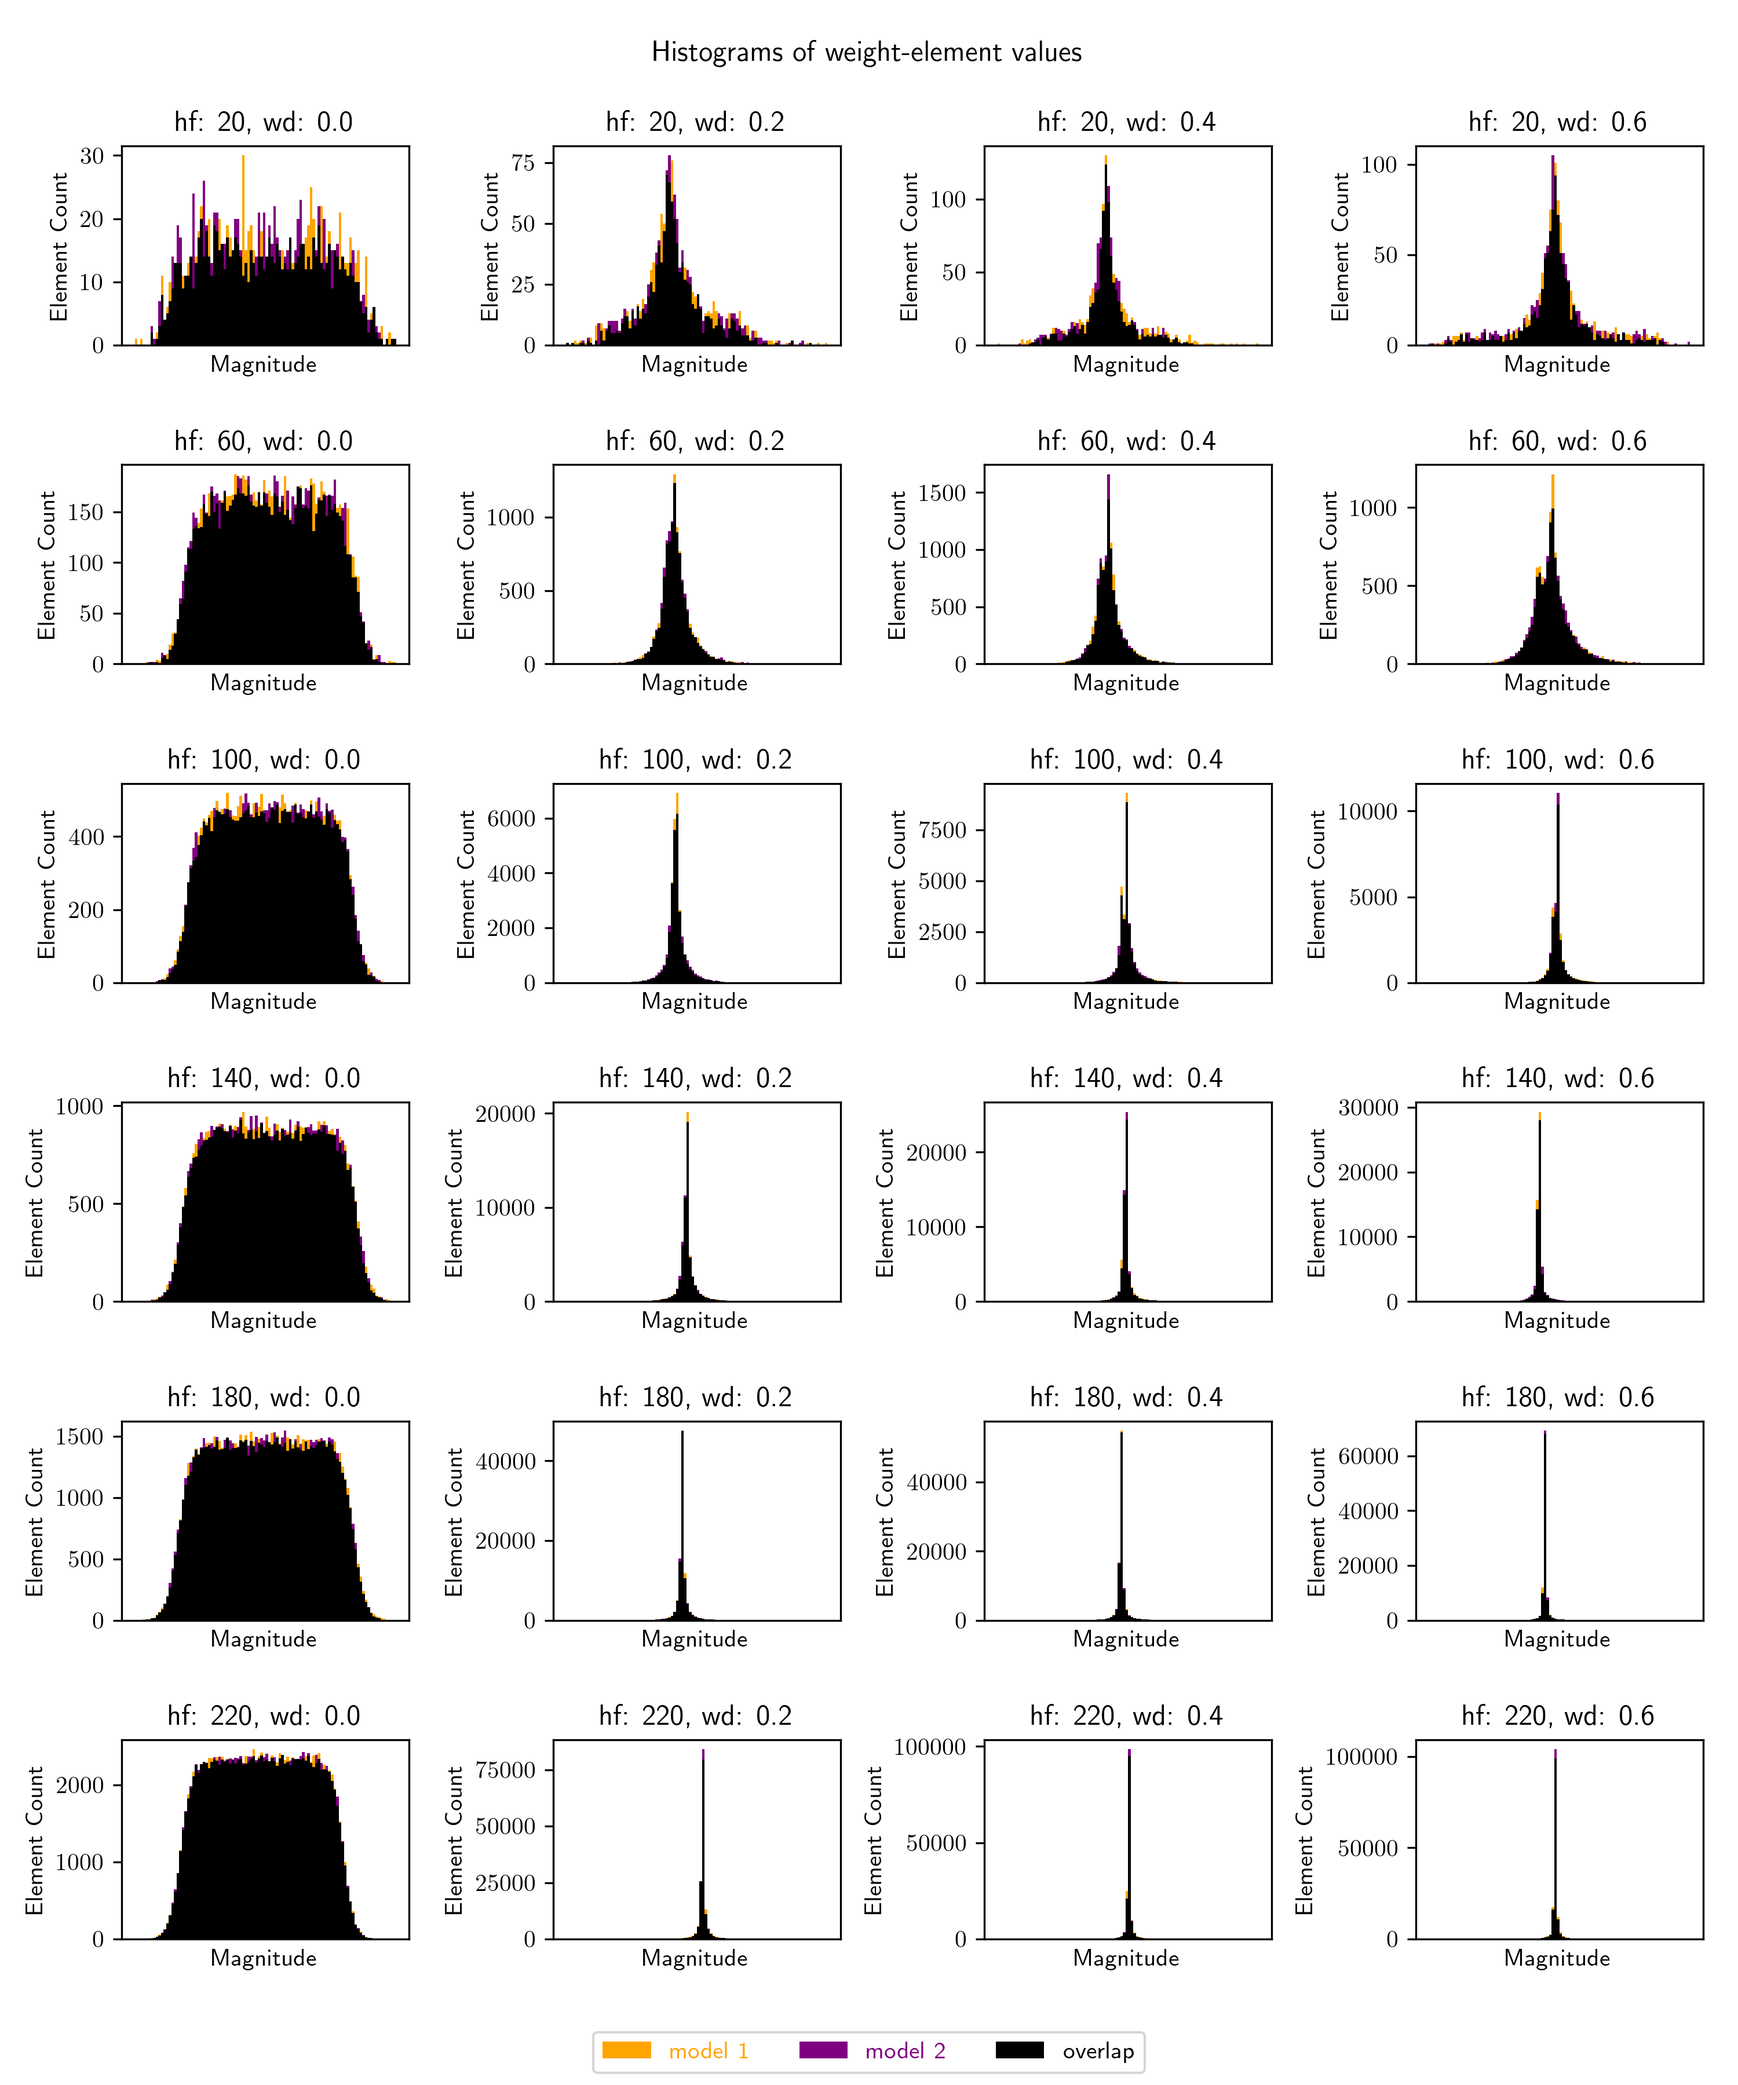
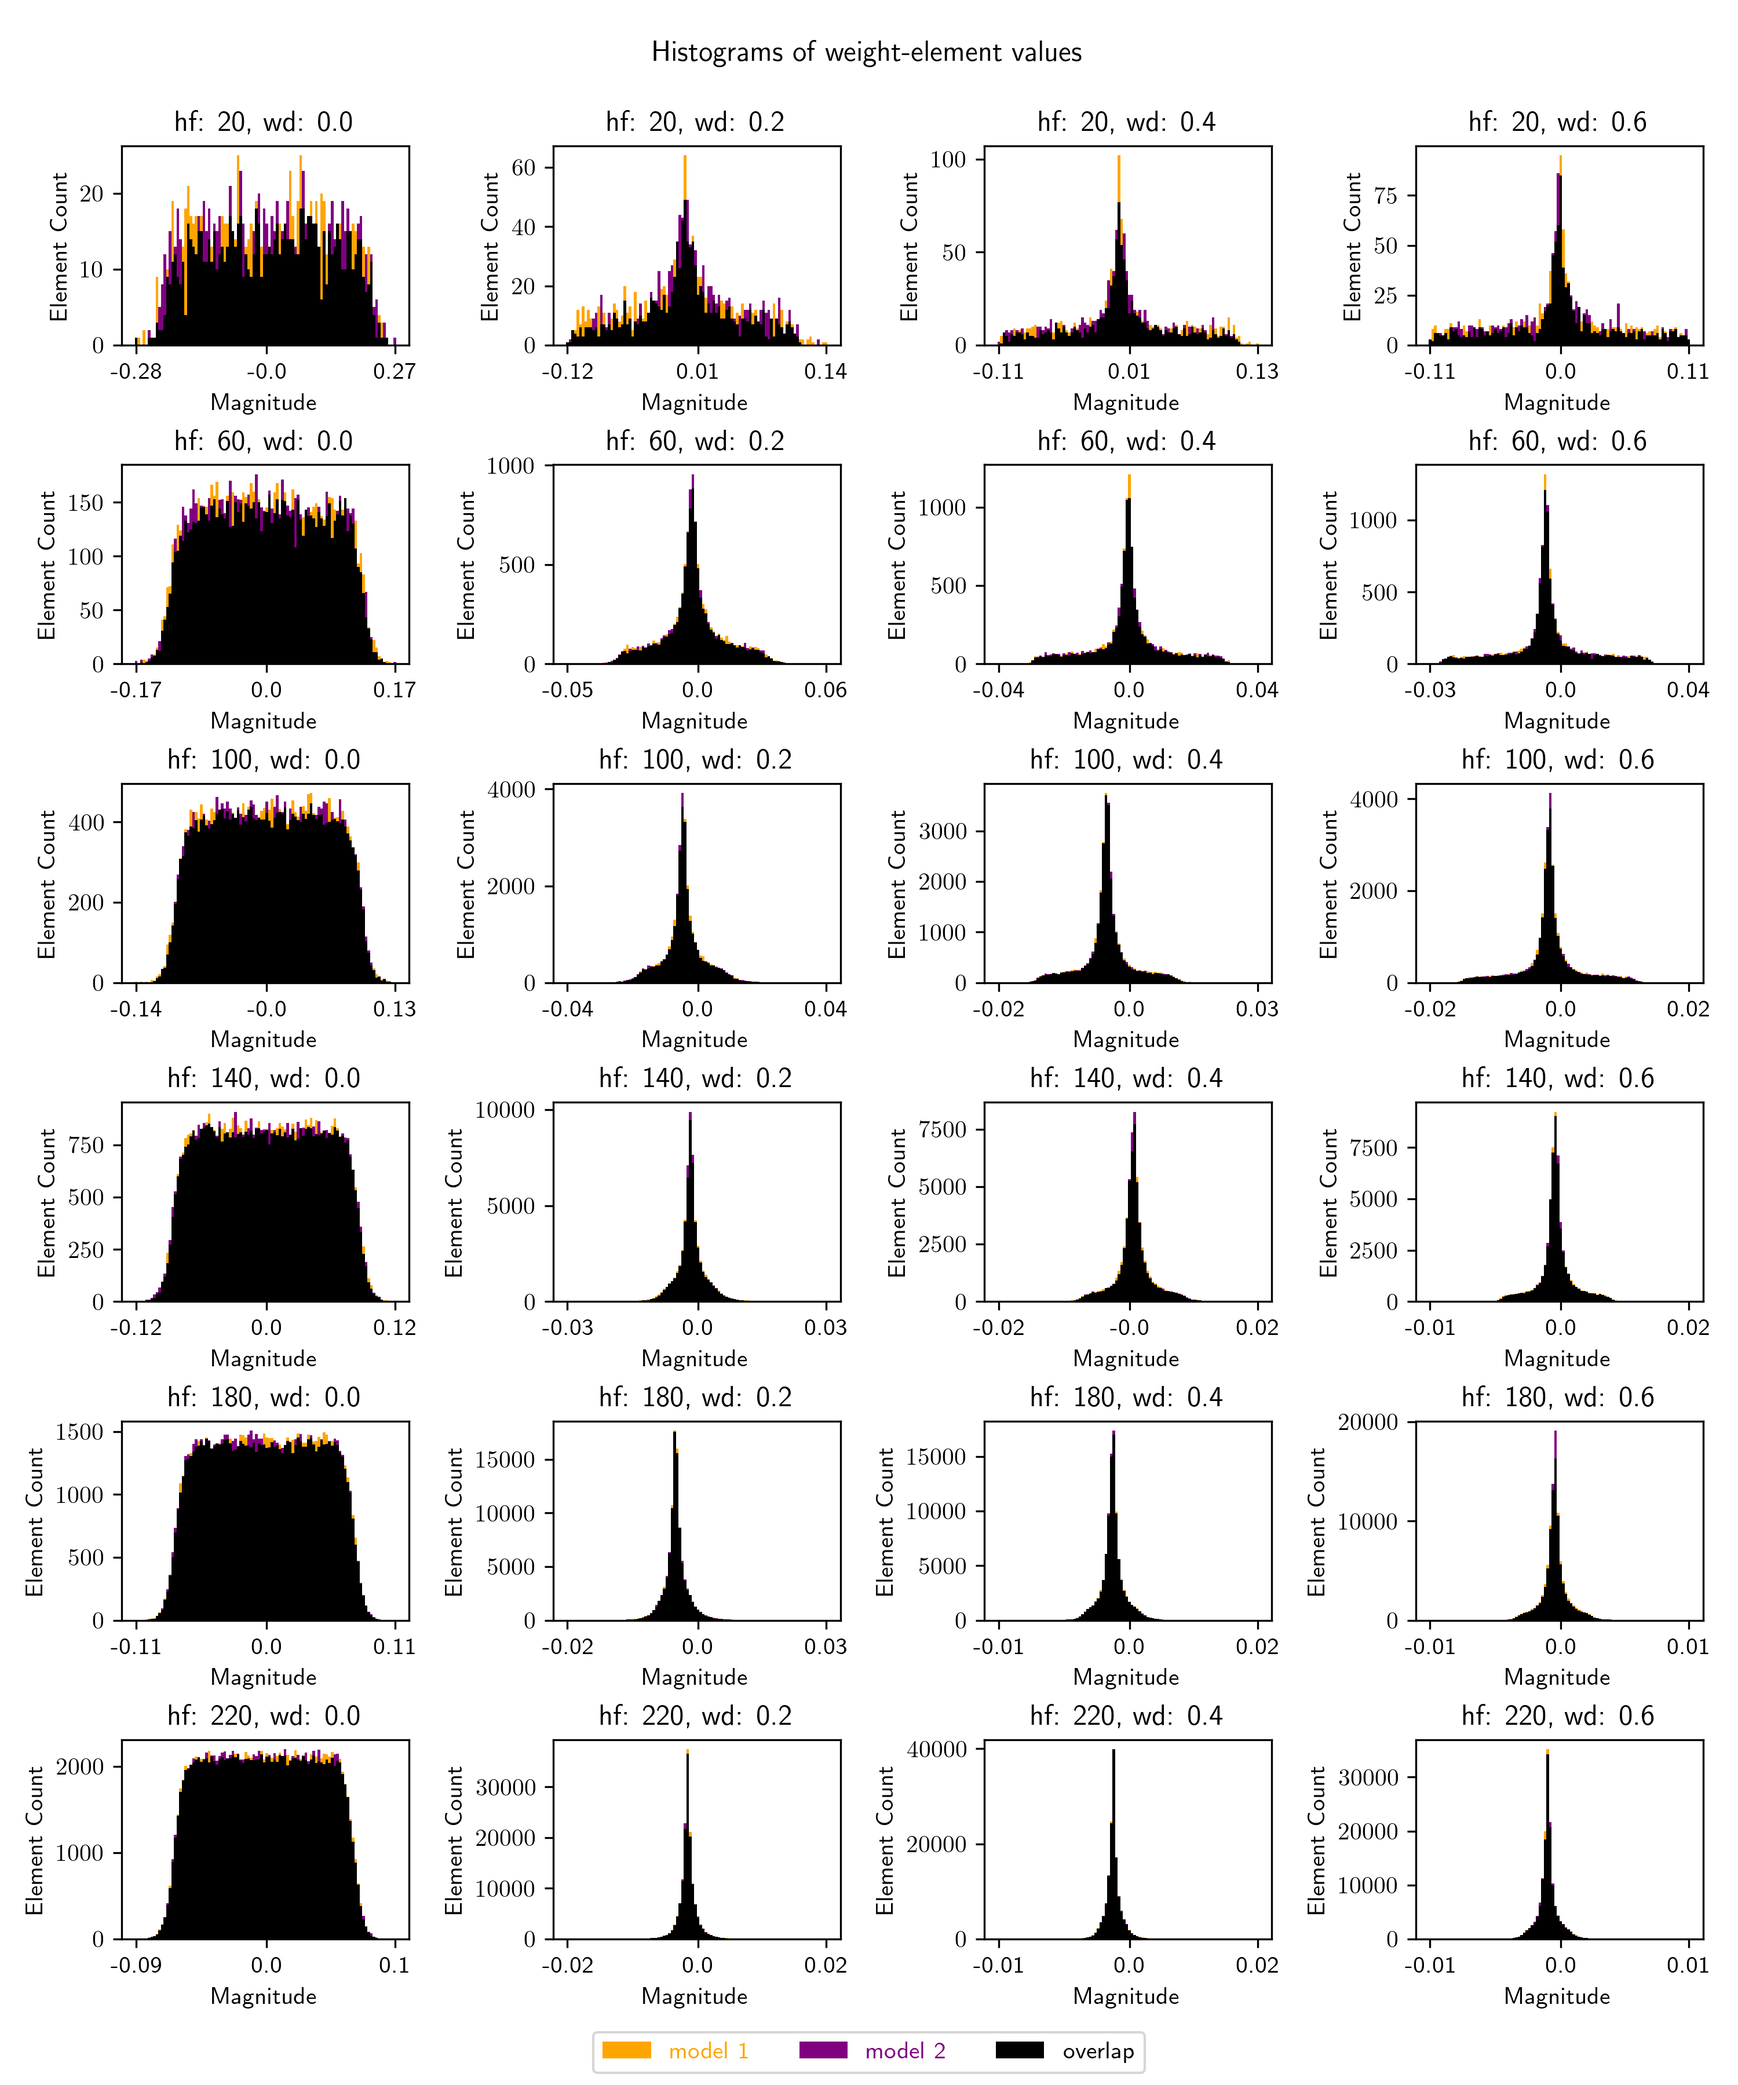
Label the bins in the weight histograms

diff --git a/mlp/plot_results.py b/mlp/plot_results.py
@@ -827,17 +827,19 @@ def plot_histograms() -> None:
                 (df["hidden_features"] == hidden_feature) &
                 (df["weight_decay"] == weight_decay)
             ]
+            bins = ast.literal_eval(this_df["bins"].values[0])
             values1 = ast.literal_eval(this_df["values1"].values[0])
             values2 = ast.literal_eval(this_df["values2"].values[0])
             assert len(values1) == len(values2)
-            bins = np.arange(len(values1))
             values_overlap = [min(v1, v2) for v1, v2 in zip(values1, values2)]
 
             axs[i, j].bar(np.arange(len(bins)), values1, width=1, color="orange")
             axs[i, j].bar(np.arange(len(bins)), values2, width=1, color="purple")
             axs[i, j].bar(np.arange(len(bins)), values_overlap, width=1, color="black")
-            axs[i, j].set_xticks([])
-            axs[i, j].set_xticklabels([])
+            xticks = np.array([0, int(len(bins) / 2), len(bins) - 1])
+            xticklabels = [round(bins[int(i)], 2) for i in xticks]
+            axs[i, j].set_xticks(xticks)
+            axs[i, j].set_xticklabels(xticklabels)
             axs[i, j].set_title(f"hf: {hidden_feature}, wd: {weight_decay}")
             axs[i, j].set_xlabel("Magnitude")
             axs[i, j].set_ylabel("Element Count")
@@ -849,6 +851,7 @@ def plot_histograms() -> None:
         labels=["model 1", "model 2", "overlap"],
     )
 
+    # plt.show()
     plt.savefig("results/other/weight_histograms_wd0.0-0.6_hf20-220_nbins100.png", dpi=300)
 
 
@@ -992,4 +995,4 @@ def plot_pcd_on_split_dataset_heatmap() -> None:
 
 
 if __name__ == "__main__":
-    plot_pcd_on_split_dataset_heatmap()
+    plot_histograms()
